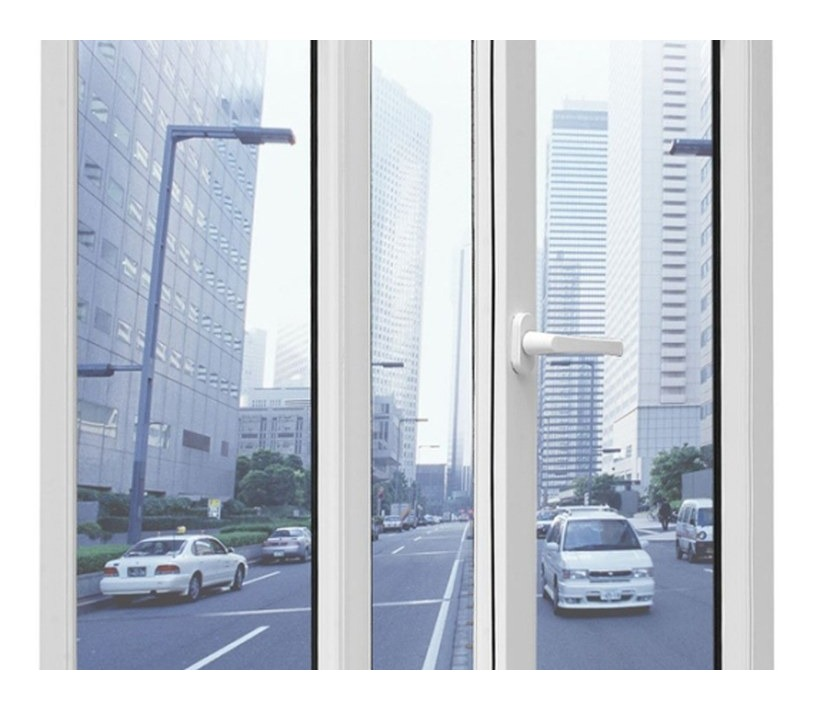
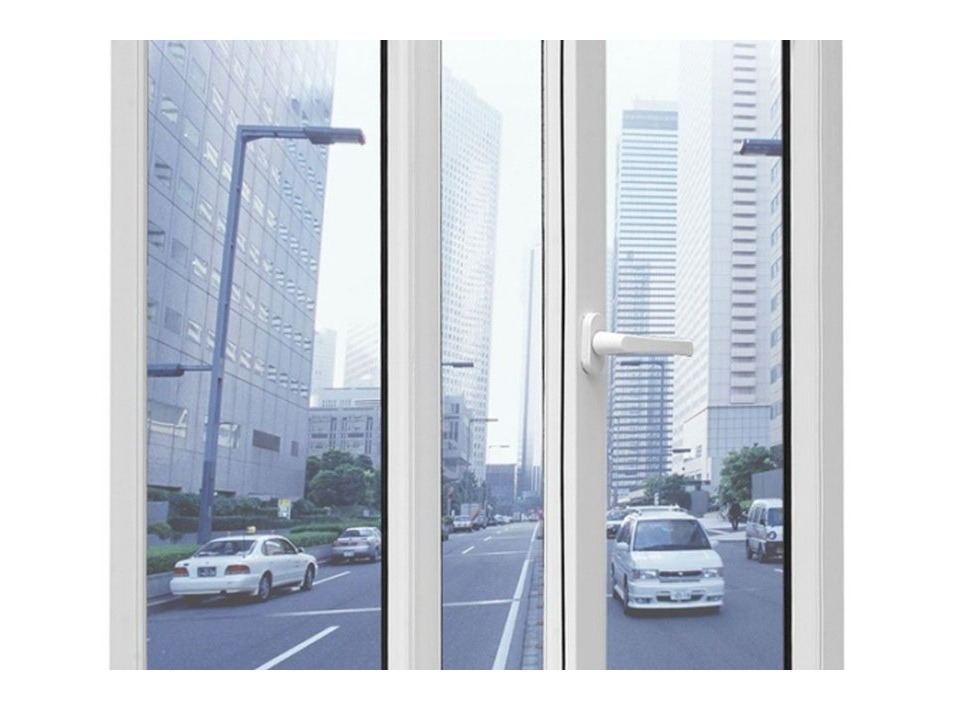
fix: PRM-108 window image now shows complete frame in grid view
- Widened al-prm108a-window-hero.jpg to 960×710 (was 820×710)
  by adding 70px white padding on each side. Image ratio (1.352:1) is
  now wider than the 4:3 card container, so object-fit:cover shows the
  full height (complete top rail + bottom sill) and trims only white
  edge padding on the sides.
- Fixed renderCategoryProductGrid() in build-site.js to emit
  style="object-fit:..." when heroImage.objectFit is set (was ignored).
- Removed objectFit:'contain' override from prm-108a heroImage (no
  longer needed with the wider source image).

diff --git a/site/data/products.js b/site/data/products.js
@@ -345,7 +345,7 @@ module.exports = [
     seoTitle: 'PRM-108 Series Aluminum Window | Fenovera',
     description: 'Fenovera PRM-108 Series aluminum window with 108 mm frame. Available in casement, awning, and tilt-turn. The PRM-108 Series door is also available.',
     heroIntro: 'Aluminum window series with 108 mm frame. Available in casement, awning, and tilt-turn configurations. The <a style="color:#1a73b8;text-decoration:underline" href="/products/doors/aluminum/prm-108a/">PRM-108 Series aluminum door</a> is available in the same profile. Contact us for specifications, pricing, and availability.',
-    heroImage: { src: '/img/al-prm108a-window-hero.jpg', alt: 'PRM-108 Series aluminum casement window open with city reflection', role: 'hero', objectFit: 'contain', rightsVerified: false, productProvenanceVerified: true, sourceDocument: 'Prima aluminum catalog (Aluminum Windows and doors catalog from PRIMA.pdf), p.4' },
+    heroImage: { src: '/img/al-prm108a-window-hero.jpg', alt: 'PRM-108 Series aluminum casement window open with city reflection', role: 'hero', rightsVerified: false, productProvenanceVerified: true, sourceDocument: 'Prima aluminum catalog (Aluminum Windows and doors catalog from PRIMA.pdf), p.4' },
     galleryImages: [], finishes: ALUMINUM_FINISHES, hardware: null, certifications: ALUMINUM_CERTIFICATIONS, documents: [],
     specificationGroups: [
       { label: 'Casement', rows: [

diff --git a/scripts/build-site.js b/scripts/build-site.js
@@ -483,7 +483,14 @@ function renderCategoryProductGrid(data) {
     html += '  <a href="' + url + '" class="product-series-card">\n';
     html += '    <div class="product-series-card__image">\n';
     if (cardImg && cardImg.src) {
-      html += '      <img src="' + escapeHtml(cardImg.src) + '" alt="' + escapeHtml(cardImg.alt || product.publicName) + '" loading="lazy" decoding="async">\n';
+      var cardImgStyle = '';
+      if (cardImg.objectFit || cardImg.objectPosition) {
+        var sp = [];
+        if (cardImg.objectFit)     sp.push('object-fit:'     + cardImg.objectFit);
+        if (cardImg.objectPosition) sp.push('object-position:' + cardImg.objectPosition);
+        cardImgStyle = ' style="' + escapeHtml(sp.join(';')) + '"';
+      }
+      html += '      <img src="' + escapeHtml(cardImg.src) + '" alt="' + escapeHtml(cardImg.alt || product.publicName) + '"' + cardImgStyle + ' loading="lazy" decoding="async">\n';
     } else {
       html += '      <div class="product-card__img-placeholder"></div>\n';
     }
